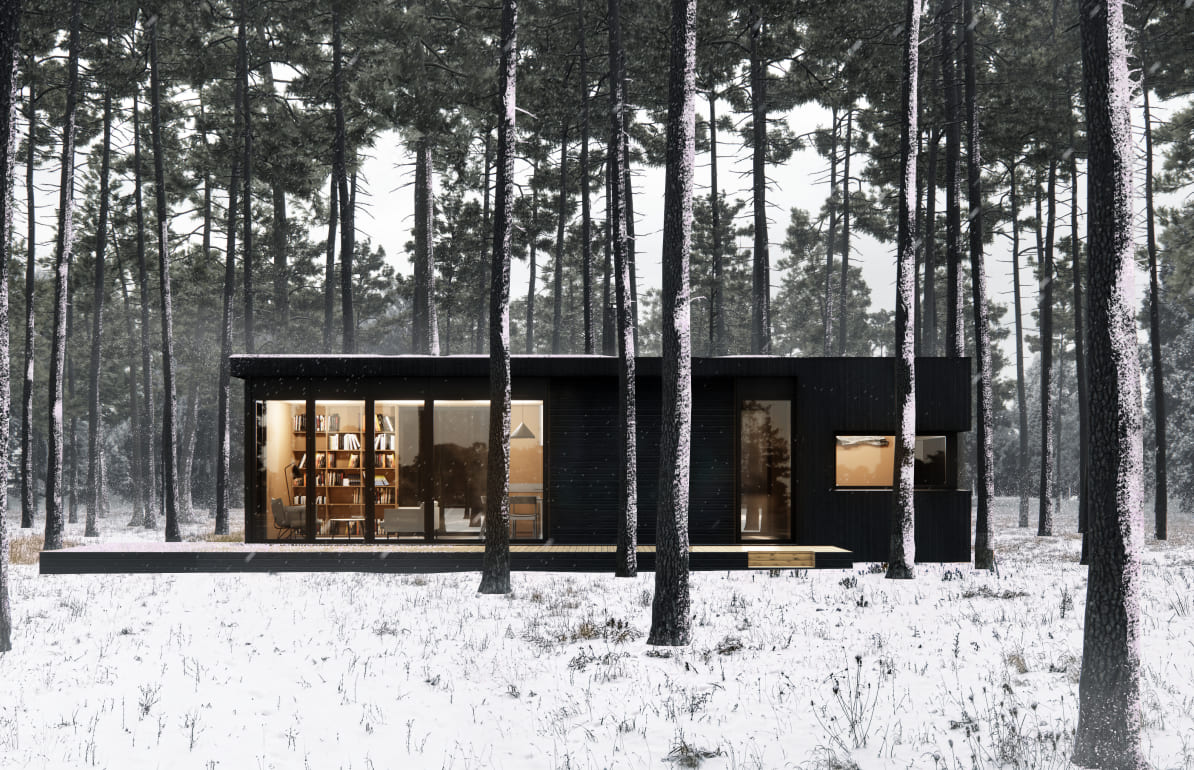
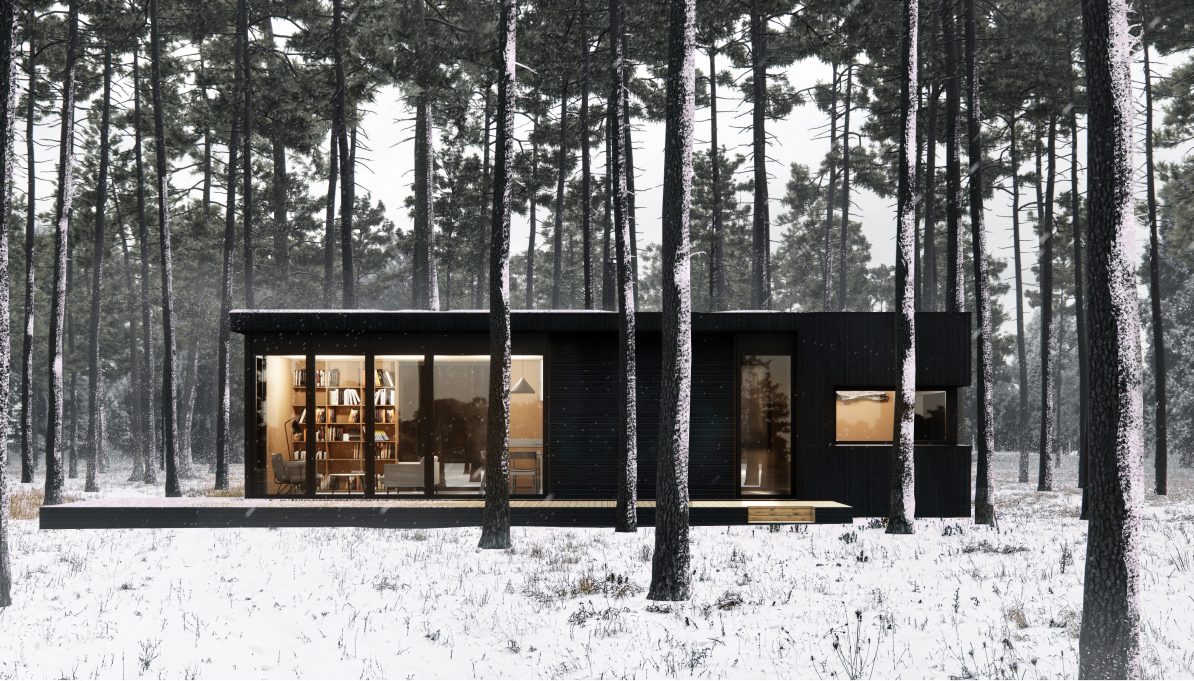
fixed some bugs

diff --git a/build/index.html b/build/index.html
@@ -24,11 +24,6 @@
         <div class="header-home-page__menu menu">
           <div class="menu__icon"> <span> </span></div>
           <nav class="menu__body">
-            <div class="menu__location"> 
-              <div class="menu__select">
-                <div class="menu__select-current">Санкт‑Петербург</div>
-              </div>
-            </div>
             <ul class="menu__list">
               <li><a class="menu__link" href="concept.html">Концепция</a></li>
               <li><a class="menu__link" href="catalog.html">Серии</a></li>
@@ -238,13 +233,13 @@
                 </div>
                 <div class="our-production__item">
                   <p class="item-parag">30<span>лет</span></p>
-                  <p>Зданий построенно за год</p>
+                  <p>Опыта в производстве модульных зданий</p>
                 </div>
               </div>
               <div class="our-production__item-box">       
                 <div class="our-production__item">
                   <p class="item-parag">50+</p>
-                  <p>Опыта в производстве модульных зданий</p>
+                  <p>Зданий построенно за год</p>
                 </div>
                 <div class="our-production__item">
                   <p class="item-parag">300+</p>

diff --git a/build/catalog.html b/build/catalog.html
@@ -167,7 +167,7 @@
                   </section>
                 </div>
               </div>
-              <div class="tabs__block" id="tab02">                <a class="tabs__link" href="zigzag.html"><img src="https://picsum.photos/1194/770" alt="image"></a>
+              <div class="tabs__block" id="tab02">                <a class="tabs__link" href="zigzag.html"><img src="assets/images/series-cabin-img2.jpg"></a>
                 <div class="tabs__desc">
                   <div class="tabs__desc-heading"> 
                     <h3>Описание серии ЗИГ - ЗАГ</h3>
@@ -279,7 +279,7 @@
                   </section>
                 </div>
               </div>
-              <div class="tabs__block" id="tab03">               <a class="tabs__link" href="patio.html"><img src="https://picsum.photos/1194/770" alt="image"></a>
+              <div class="tabs__block" id="tab03">               <a class="tabs__link" href="patio.html"><img src="assets/images/series-cabin-img3.jpg"></a>
                 <div class="tabs__desc">
                   <div class="tabs__desc-heading"> 
                     <h3>Описание серии ПАТИО</h3>
